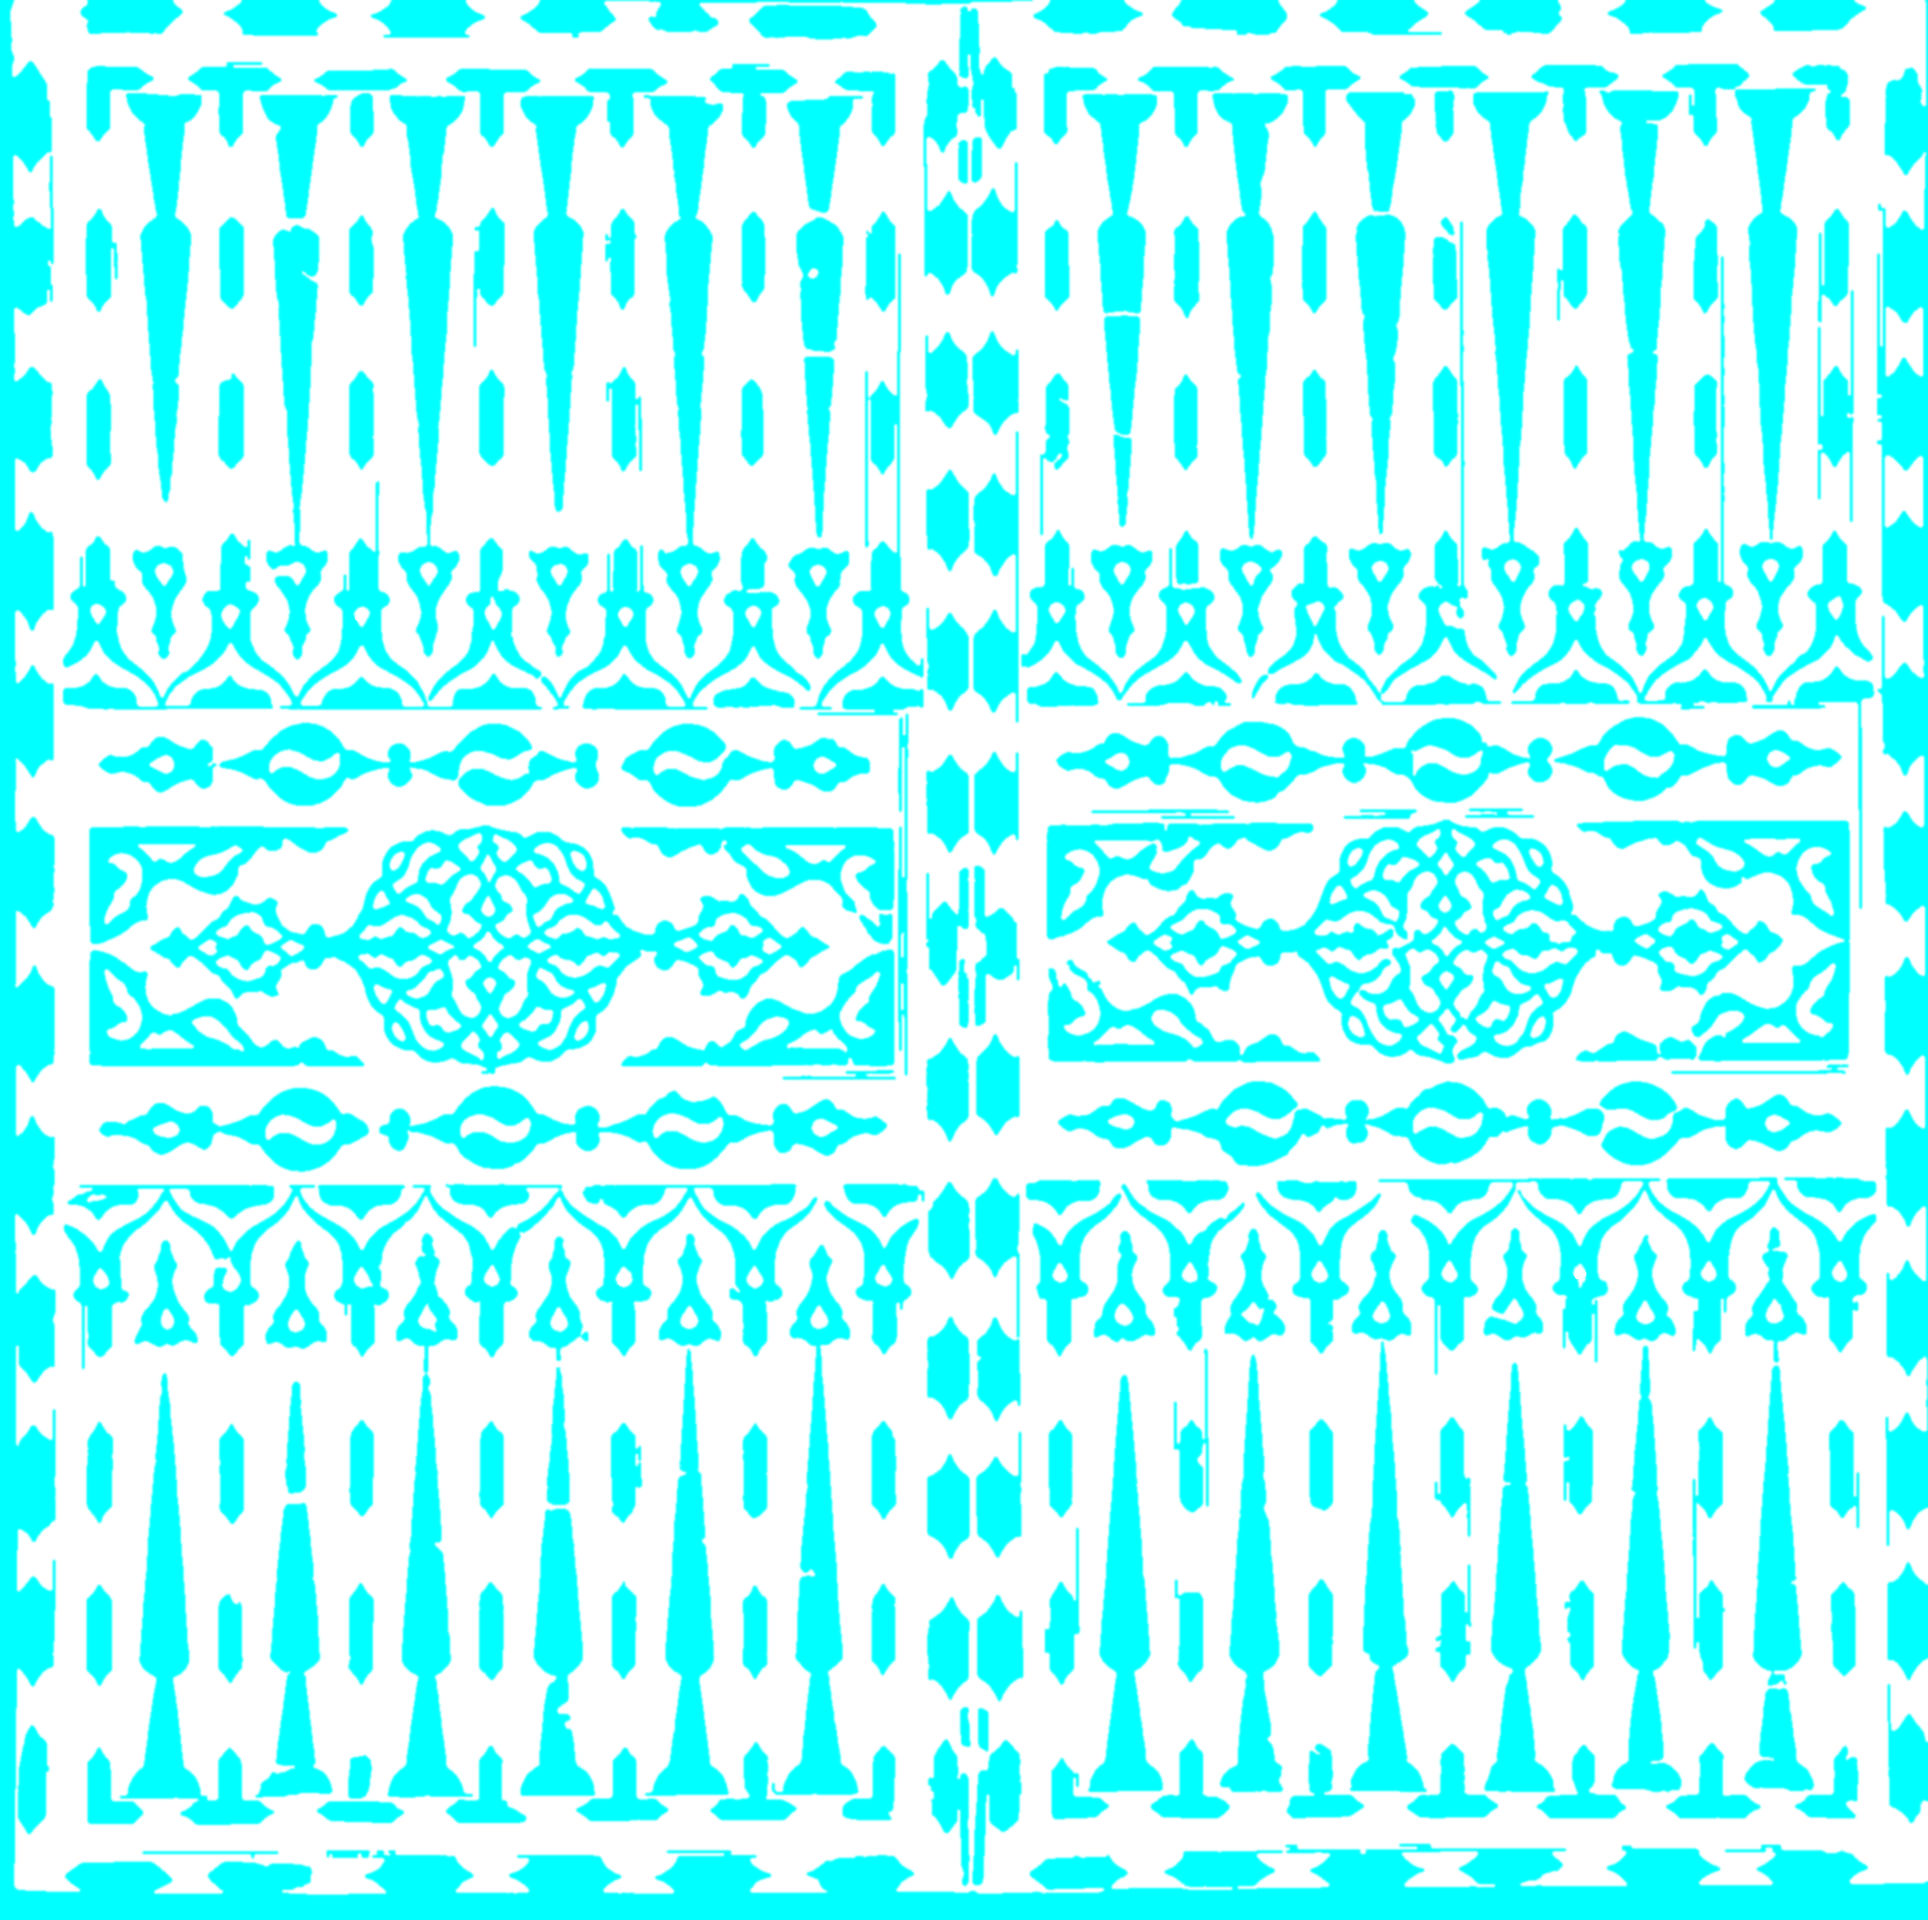
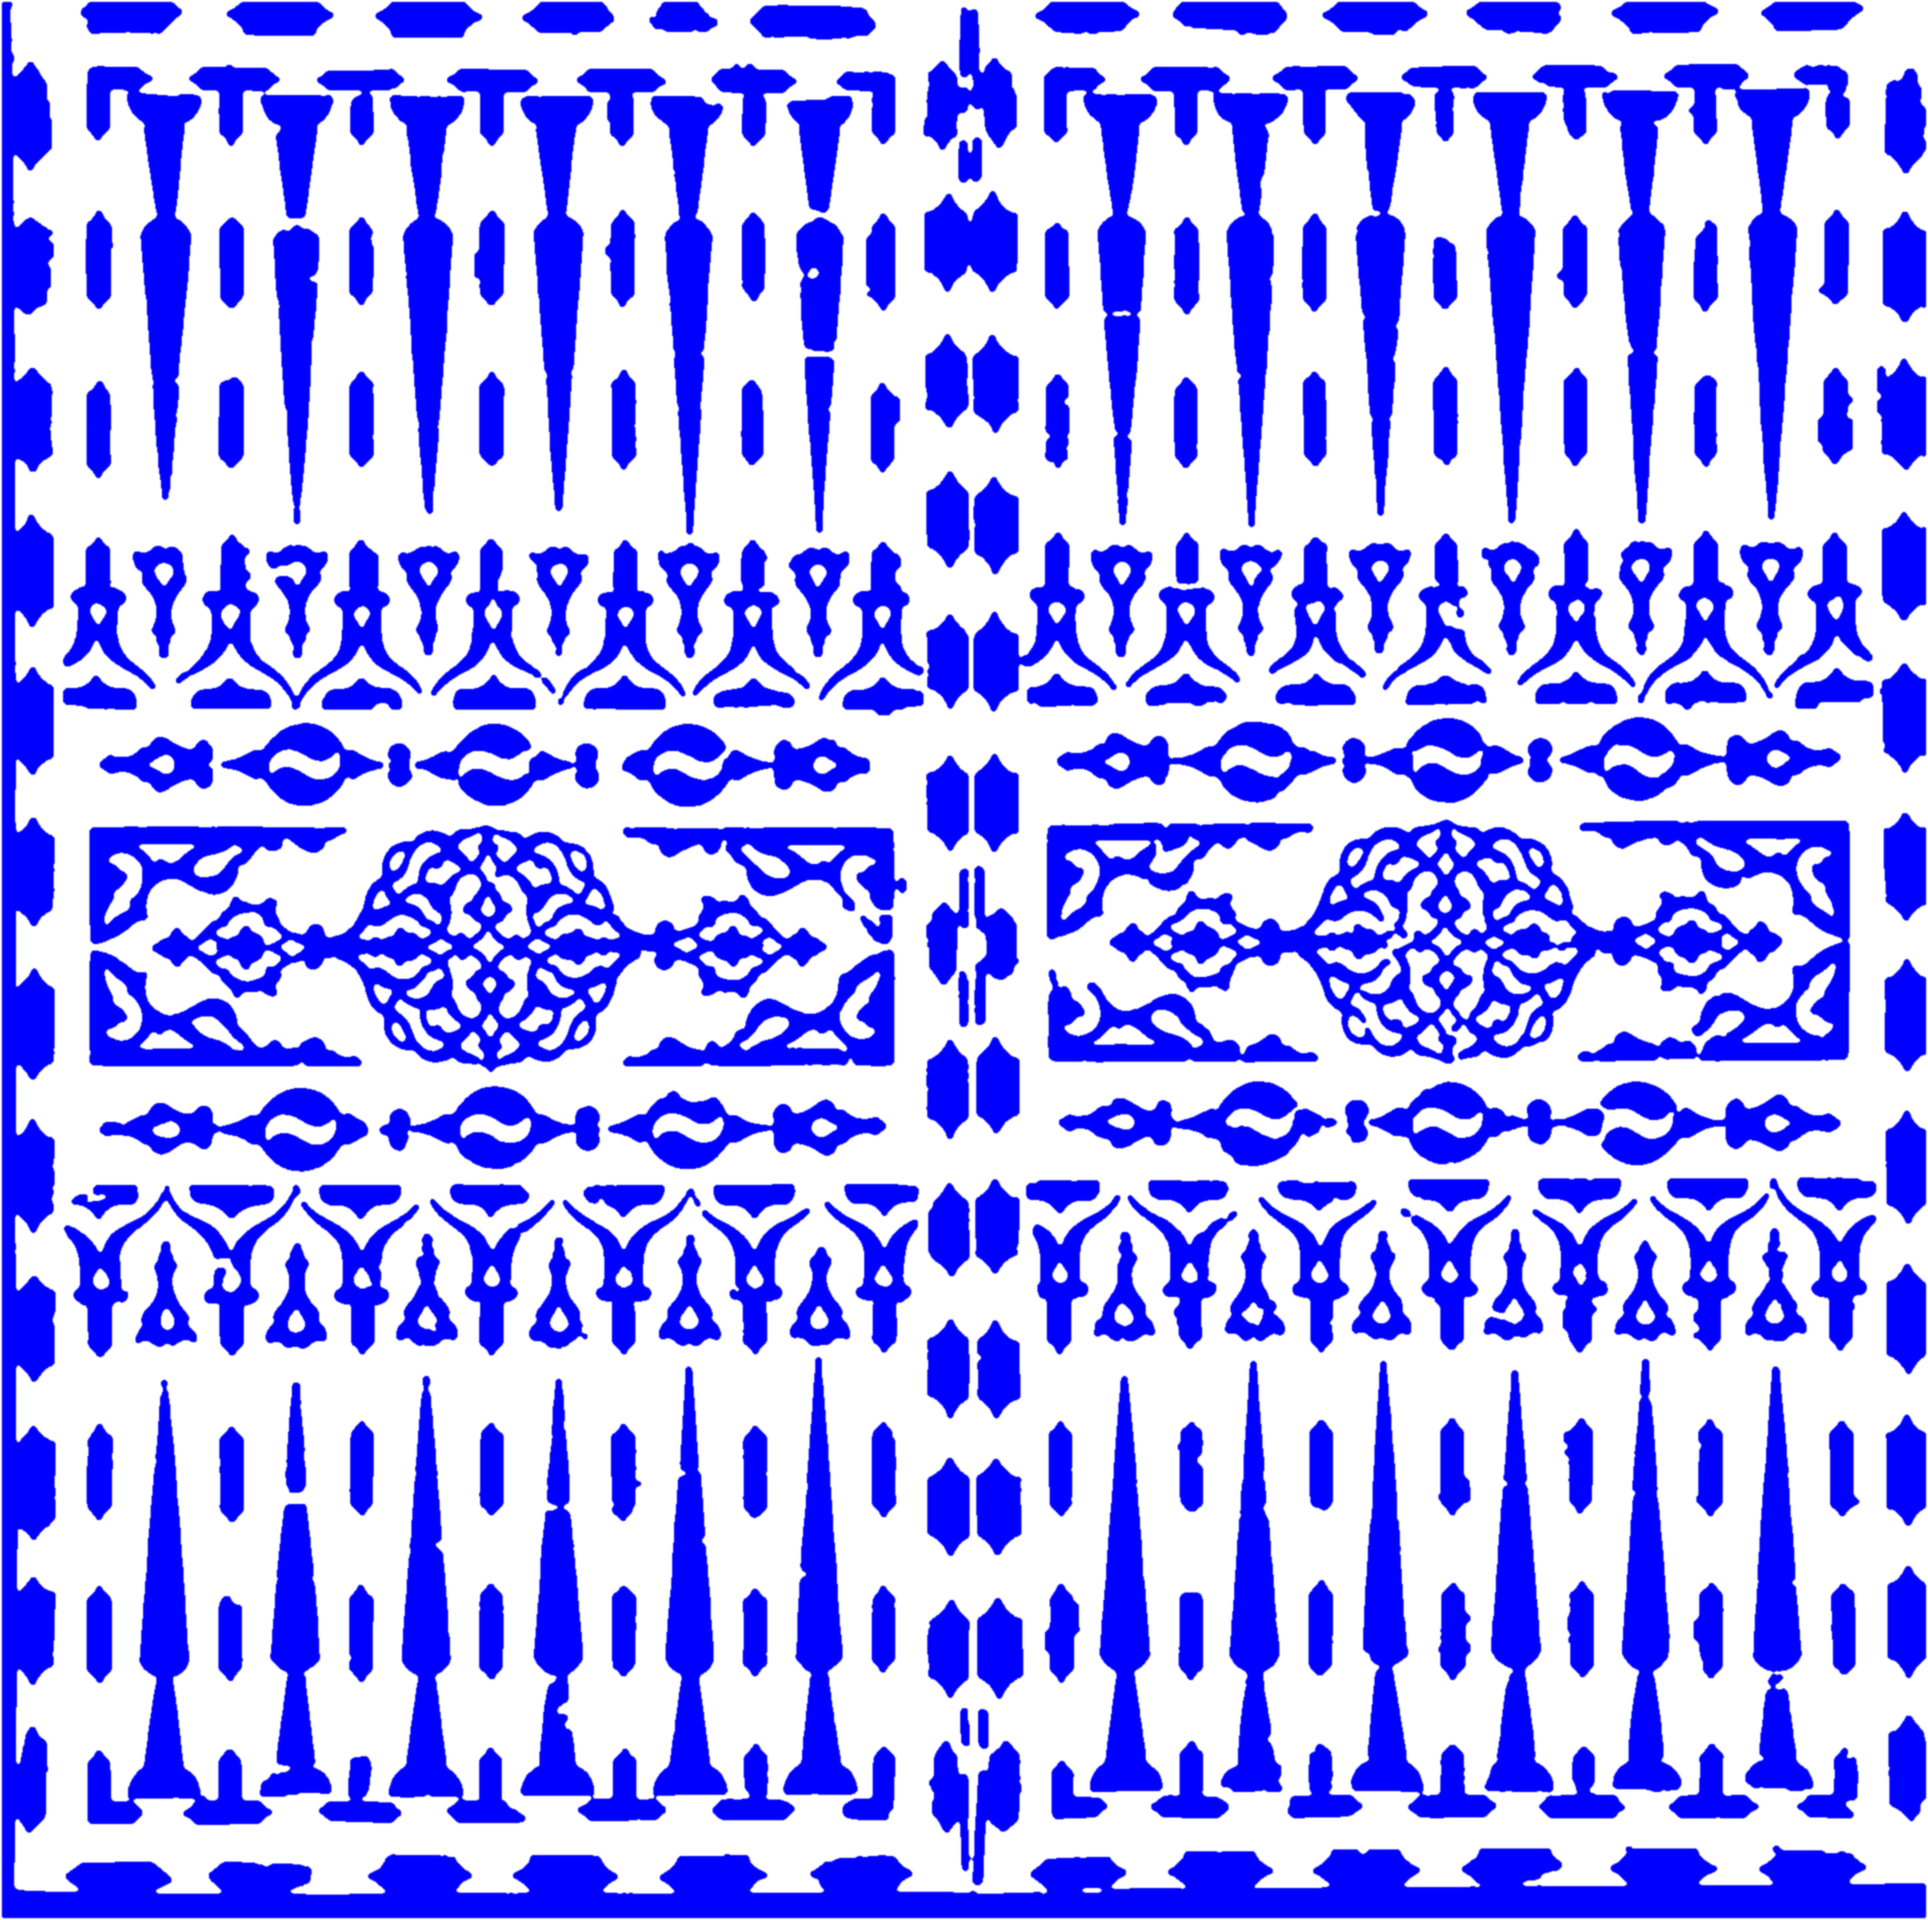
博物館：バックギャモン盤の途切れた線を配置図から除去、螺鈿の色変化をシェーダーで実装
Claude-Session: https://claude.ai/code/session_01EiWRAZTxRF5M5nk5vdR2jJ

diff --git a/atlas/museum/ex/ottoman.js b/atlas/museum/ex/ottoman.js
@@ -17,7 +17,7 @@
   const HERE = (document.currentScript && document.currentScript.src) || location.href; let INLAY = null;
   (window.AtlasEx = window.AtlasEx || {}).ottoman = {
     flip: true,
-    ready: () => new Promise(res => { const im = new Image(); im.onload = () => { INLAY = im; res(); }; im.onerror = () => res(); im.src = new URL('../../../images/atlas/ex/ottoman-inlay.webp?v=2', HERE).href; setTimeout(res, 8000); }),
+    ready: () => new Promise(res => { const im = new Image(); im.onload = () => { INLAY = im; res(); }; im.onerror = () => res(); im.src = new URL('../../../images/atlas/ex/ottoman-inlay.webp?v=3', HERE).href; setTimeout(res, 8000); }),
     build(TT, X, K) {
       const G = new TT.Group();
       const W = 56.5, D = 56.3, LD = D / 2, TH = 2.0, PX = innerWidth < 820 ? 1536 : 2048;   // width, depth open, a leaf's depth, its thickness
@@ -234,11 +234,24 @@
         bgMask = new TT.CanvasTexture(mk); bgMask.colorSpace = TT.NoColorSpace;
       });
       // materials: shell / pearl in one picture; the pearl areas get a thin-film iridescence (mask)
-      const face = (map, mask) => K.mat({ map, color: '#e9e6e2', roughness: .34, metalness: .05, clearcoat: .5, clearcoatRoughness: .28, iridescence: 1, iridescenceIOR: 1.9, iridescenceThicknessRange: [220, 760], iridescenceMap: mask });
+      // Mother-of-pearl changes colour with the light: each piece is cut from the shell at its own angle, so as the board (or the eye)
+      // moves, a piece swings from grey-white through pink to green and blue, and its neighbour does so at another moment. Done in the
+      // shader: on the pearl (mask) the colour is tinted by a phase made of the piece's own grain (a noise picture) and the direction it
+      // is looked at from, taken in the board's own space — so turning the board changes it.
+      const face = (map, mask) => { const m = K.mat({ map, color: '#f2f0ee', roughness: .42, metalness: 0, clearcoat: .25, clearcoatRoughness: .45 });
+        m.onBeforeCompile = sh => { sh.uniforms.uMask = { value: mask }; sh.uniforms.uGrain = { value: thickT };
+          sh.vertexShader = sh.vertexShader.replace('#include <common>', '#include <common>\nvarying vec3 vObjView;').replace('#include <begin_vertex>', '#include <begin_vertex>\nvObjView = (inverse(modelMatrix) * vec4(cameraPosition, 1.0)).xyz - position;');
+          sh.fragmentShader = sh.fragmentShader.replace('#include <common>', '#include <common>\nuniform sampler2D uMask; uniform sampler2D uGrain; varying vec3 vObjView;').replace('#include <map_fragment>', `#include <map_fragment>
+            { float pm = texture2D(uMask, vMapUv).r; float gr = texture2D(uGrain, vMapUv * .9).r; float a = gr * 4.2;
+              vec3 gdir = normalize(vec3(cos(a), sin(a), cos(a * 1.7) * .8)); float t = dot(normalize(vObjView), gdir);
+              vec3 hue = .5 + .5 * cos(6.2832 * (gr * .7 + t * .85 + vec3(0.0, .33, .67)));
+              float sheen = smoothstep(.15, .95, abs(t));
+              diffuseColor.rgb = mix(diffuseColor.rgb, diffuseColor.rgb * (.5 + .5 * sheen) + hue * (.08 + .2 * sheen), pm); }`); };
+        m.customProgramCacheKey = () => 'ott-nacre'; return m; };
       const thickT = K.tex(512, 512, (g, w, h) => { const n = K.noise(91), img = g.createImageData(w, h), d = img.data;
-        for (let y = 0; y < h; y++) for (let x = 0; x < w; x++) { const v = n(x / 9, y / 26, 2) * .6 + n(x / 60, y / 60, 3) * .4, i = (y * w + x) * 4; d[i] = d[i + 1] = d[i + 2] = Math.max(0, Math.min(255, v * 300 - 20)); d[i + 3] = 255; } g.putImageData(img, 0, 0); }, { data: true, rep: [3, 3] });
+        for (let y = 0; y < h; y++) for (let x = 0; x < w; x++) { const v = n(x / 30, y / 70, 2) * .35 + n(x / 90, y / 90, 3) * .65, i = (y * w + x) * 4; d[i] = d[i + 1] = d[i + 2] = Math.max(0, Math.min(255, v * 300 - 20)); d[i + 3] = 255; } g.putImageData(img, 0, 0); }, { data: true, rep: [3, 3] });
       const chessMat = face(chessT, chessMask), bgMat = face(bgT, bgMask);
-      [chessMat, bgMat].forEach(m => { m.iridescenceThicknessMap = thickT; m.metalnessMap = m.iridescenceMap; m.metalness = .45; m.color.set('#ffffff'); });   // (the pearl reflects like a metal, so the film's colours show in what it mirrors and move as the board turns; the shell stays a dielectric)
+   // (the pearl reflects like a metal, so the film's colours show in what it mirrors and move as the board turns; the shell stays a dielectric)
       const edgeT = K.tex(512, 64, (g, w, h) => { g.fillStyle = '#e8dcbc'; g.fillRect(0, 0, w, h); g.strokeStyle = 'rgba(90,70,40,.5)'; g.lineWidth = 2; for (let x = 0; x < w; x += 40) { g.beginPath(); g.moveTo(x, 0); g.lineTo(x + 20, h / 2); g.lineTo(x, h); g.stroke(); } }, { rep: [12, 1] });
       const bone = K.mat({ map: edgeT, color: '#ffffff', roughness: .45, clearcoat: .3 });
       // the frame tops: plaques of turtle shell alternating with mother-of-pearl cut as long pieces with concave ends running to a point
@@ -269,7 +282,7 @@
         const leaf = new TT.Mesh(new TT.BoxGeometry(LW - .08, TH, D), [sdD, sdD, wood, wood, sdL, sdL]); leaf.position.set(cx + sd * .04, TH / 2, 0); G.add(leaf);
         // raised framing fillets (about 5 mm): far, near and outer sides 1.2 cm wide, the hinge side 1.5 cm
         // (with the photograph's layout, the raised fillets carry their own part of the same picture)
-        const part = (w, d, x, z) => { const m = bgMat.clone(); ['map', 'iridescenceMap', 'metalnessMap'].forEach(k => { const t = bgMat[k].clone(); t.repeat.set(w / W, d / D); t.offset.set((x - w / 2 + W / 2) / W, (D / 2 - z - d / 2) / D); t.needsUpdate = true; m[k] = t; }); m.polygonOffset = false; return m; };
+        const part = (w, d, x, z) => { const m = bgMat.clone(); m.onBeforeCompile = bgMat.onBeforeCompile; m.customProgramCacheKey = bgMat.customProgramCacheKey; const t = bgMat.map.clone(); t.repeat.set(w / W, d / D); t.offset.set((x - w / 2 + W / 2) / W, (D / 2 - z - d / 2) / D); t.needsUpdate = true; m.map = t; m.polygonOffset = false; return m; };
         const fil = (w, d, x, z, m) => { const f = new TT.Mesh(new TT.BoxGeometry(w, .5, d), [wood, wood, INLAY ? part(w, d, x, z) : m, wood, wood, wood]); f.position.set(x, TH + .25, z); G.add(f); };
         fil(LW, FW, cx, -D / 2 + FW / 2, plaqMat(LW, false)); fil(LW, FW, cx, D / 2 - FW / 2, plaqMat(LW, false));
         fil(FW, D - 2 * FW, sd * (W / 2 - FW / 2), 0, plaqMat(D, true)); const HG2 = INLAY ? 1.45 : HG; fil(HG2, D - 2 * FW, sd * HG2 / 2, 0, hingeMat);

diff --git a/atlas/museum.js b/atlas/museum.js
@@ -32,7 +32,7 @@
   const ROOMS = [
     { id: 'map', ready: () => !!window.AtlasMap, render: (el, c) => AtlasMap.render(el, c) },
     { id: 'tree', src: ['museum/tree.js?v=3'], ready: () => !!window.AtlasTree, render: (el, c) => AtlasTree.render(el, c) },
-    { id: 'gallery', src: ['museum/gallery.js?v=61'], ready: () => !!window.AtlasGallery, render: (el, c) => AtlasGallery.render(el, c) },
+    { id: 'gallery', src: ['museum/gallery.js?v=62'], ready: () => !!window.AtlasGallery, render: (el, c) => AtlasGallery.render(el, c) },
   ];
   const KEY = 'atlas-museum-room';
   const esc = s => String(s == null ? '' : s).replace(/[&<>"]/g, c => ({ '&': '&amp;', '<': '&lt;', '>': '&gt;', '"': '&quot;' }[c]));

diff --git a/atlas/index.html b/atlas/index.html
@@ -2559,7 +2559,7 @@ window.AtlasRgdTimer = function (btn, ms, alive) {
 <link rel="stylesheet" href="worldmap.css?v=19">
 <link rel="stylesheet" href="museum.css?v=4">
 <script src="worldmap.js?v=40"></script>
-<script src="museum.js?v=62"></script>
+<script src="museum.js?v=63"></script>
 <script src="npc/npc.js?v=46"></script>
 <script src="avtalk.js?v=4"></script>
 <script>/* Page states as classes on <html> (2026-11-21) — html.cov-on: the 3D view / Historia / a sheet / a level sheet is open;

diff --git a/atlas/museum/gallery.js b/atlas/museum/gallery.js
@@ -10,7 +10,7 @@
    (a turn, a zoom, the slow turntable) and never while the window is in the background. */
 (function () {
   'use strict';
-  const V = 61;
+  const V = 62;
   /* ---------- the pieces: id, the game it belongs to, its scale (cm per model unit), the camera's start, the details ----------
      lock: { game, ach } → open after that many achievements of the game. src: the files the piece needs (besides ex/<id>.js) */
   const EX = [

diff --git a/claude/museum-spec.md b/claude/museum-spec.md
@@ -79,7 +79,7 @@
   - **彫像は3Dスキャンを使ってよい（2026-11-22 ユーザー決定）**：ただし営利でも使えるライセンスに限る（サイトが将来営利になる可能性があるため、CC BY-NC 系＝大英博物館のスキャンは不可）。出どころ・作者・ライセンスを解説の出典と「この3Dモデルについて」に必ず書く。
     - ルイス駒：Thomas Flynn「Replica Lewis Chess Pieces on Chessboard」（Sketchfab、CC BY 4.0、複製品のスキャン）の白駒6体を atlas/museum/glb/lewis-*.glb にそのまま置き、lewis.js の小さな読み込み処理（glTFバイナリ、拡張なし）で表示。1体2,500三角形・計1.5万。法線とAOの画像は半分の大きさで使う。
   - **「シャルルマーニュのチェス駒」は取り下げ中（2026-11-22 ユーザー決定）**：今の品質では公開不可。gallery.js の EX から外した（モデルと解説文・サムネは残す）。戻す条件：営利可ライセンスの3Dスキャンが手に入るか、実物写真と並べて遜色ない造形ができたとき。戻すときは外す前の行 `{ id: 'charlemagne', game: 'chess', cm: 1, view: [.1, .42, .8], spots: [...] }` を git 履歴から復元する。
-  - オスマン盤の螺鈿（2026-11-22）：配置図は小さな孤立片と細い筋（写真由来のゴミ）を取り除いてから使う。作り物のひび線は入れない。貝は薄膜の虹色（iridescence、厚みは貝ごとに違う）＋貝の部分だけ金属的な反射にして、見る角度と光で色が変わるようにする。
+  - オスマン盤の螺鈿（2026-11-22）：配置図は小さな孤立片と細い筋（写真由来のゴミ）を取り除いてから使う。作り物のひび線は入れない。螺鈿の色変化はシェーダーで行う（ottoman.js の face()：貝の部分だけ、貝ごとの向き（ノイズ画像）と盤から見た視線の向きから色相を決める。盤を回すと白緑→桃→薄紫と移る）。three.js 標準の iridescence はこの照明ではほとんど見えなかったのでやめた。配置図は「幅7px以上の貝の形」だけを使い、細い象牙線（途切れてゴミに見える）は写真から取らない。確認は、実際の展示画面で盤を回した連続画像で行う。
   - **創作しない（2026-11-22 ユーザー指摘）**：実物の写真にない形・顔・模様を足さない。写真で確かめられない部分は、無地・簡素にして「推定」と書く。
     - バリンダリーの盤：真上からの写真を測って作り直し（縁の幅2.3cm、1辺3区画、7×7の穴は約2.65cm間隔、割れ目は左から約3分の1を端から端まで、木目は頭の向き、片側は首の細い長い楕円の人の頭、反対側は無地の小さな丸いつまみ）。写真の座標系（頭が上）で組み、最後に回して頭を −x に。
   - **スマホのテクスチャ上限**：スマホ（幅820px未満）では、読み込み時に長辺1536pxを超えるテクスチャを1536pxに縮める（gallery.js の small()。2048²は1枚22MB）。
